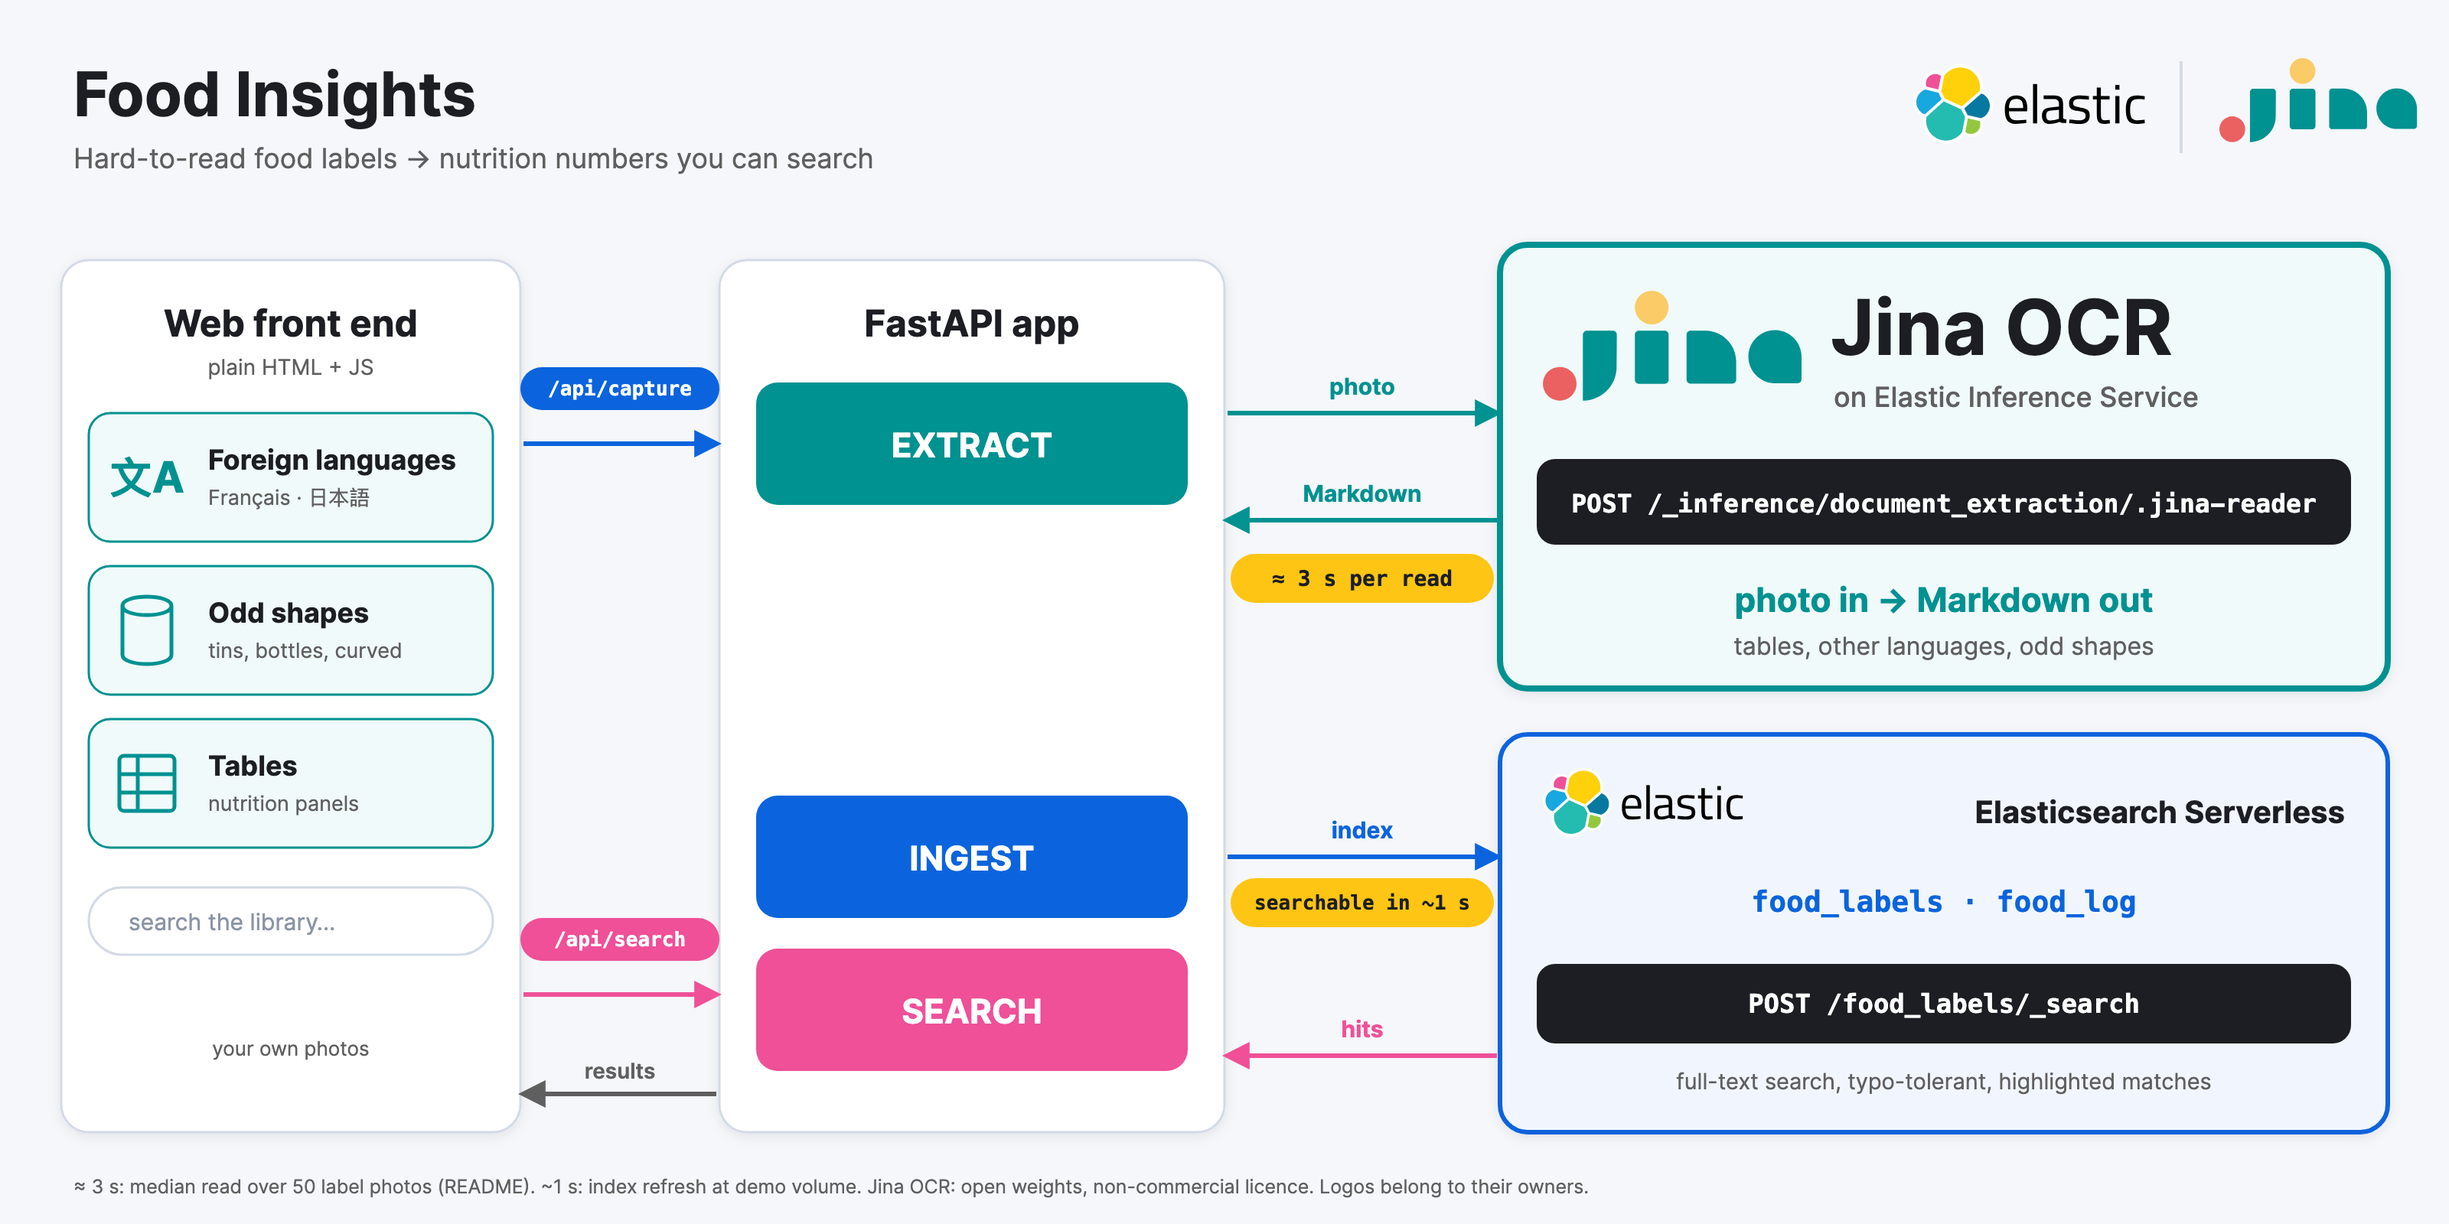
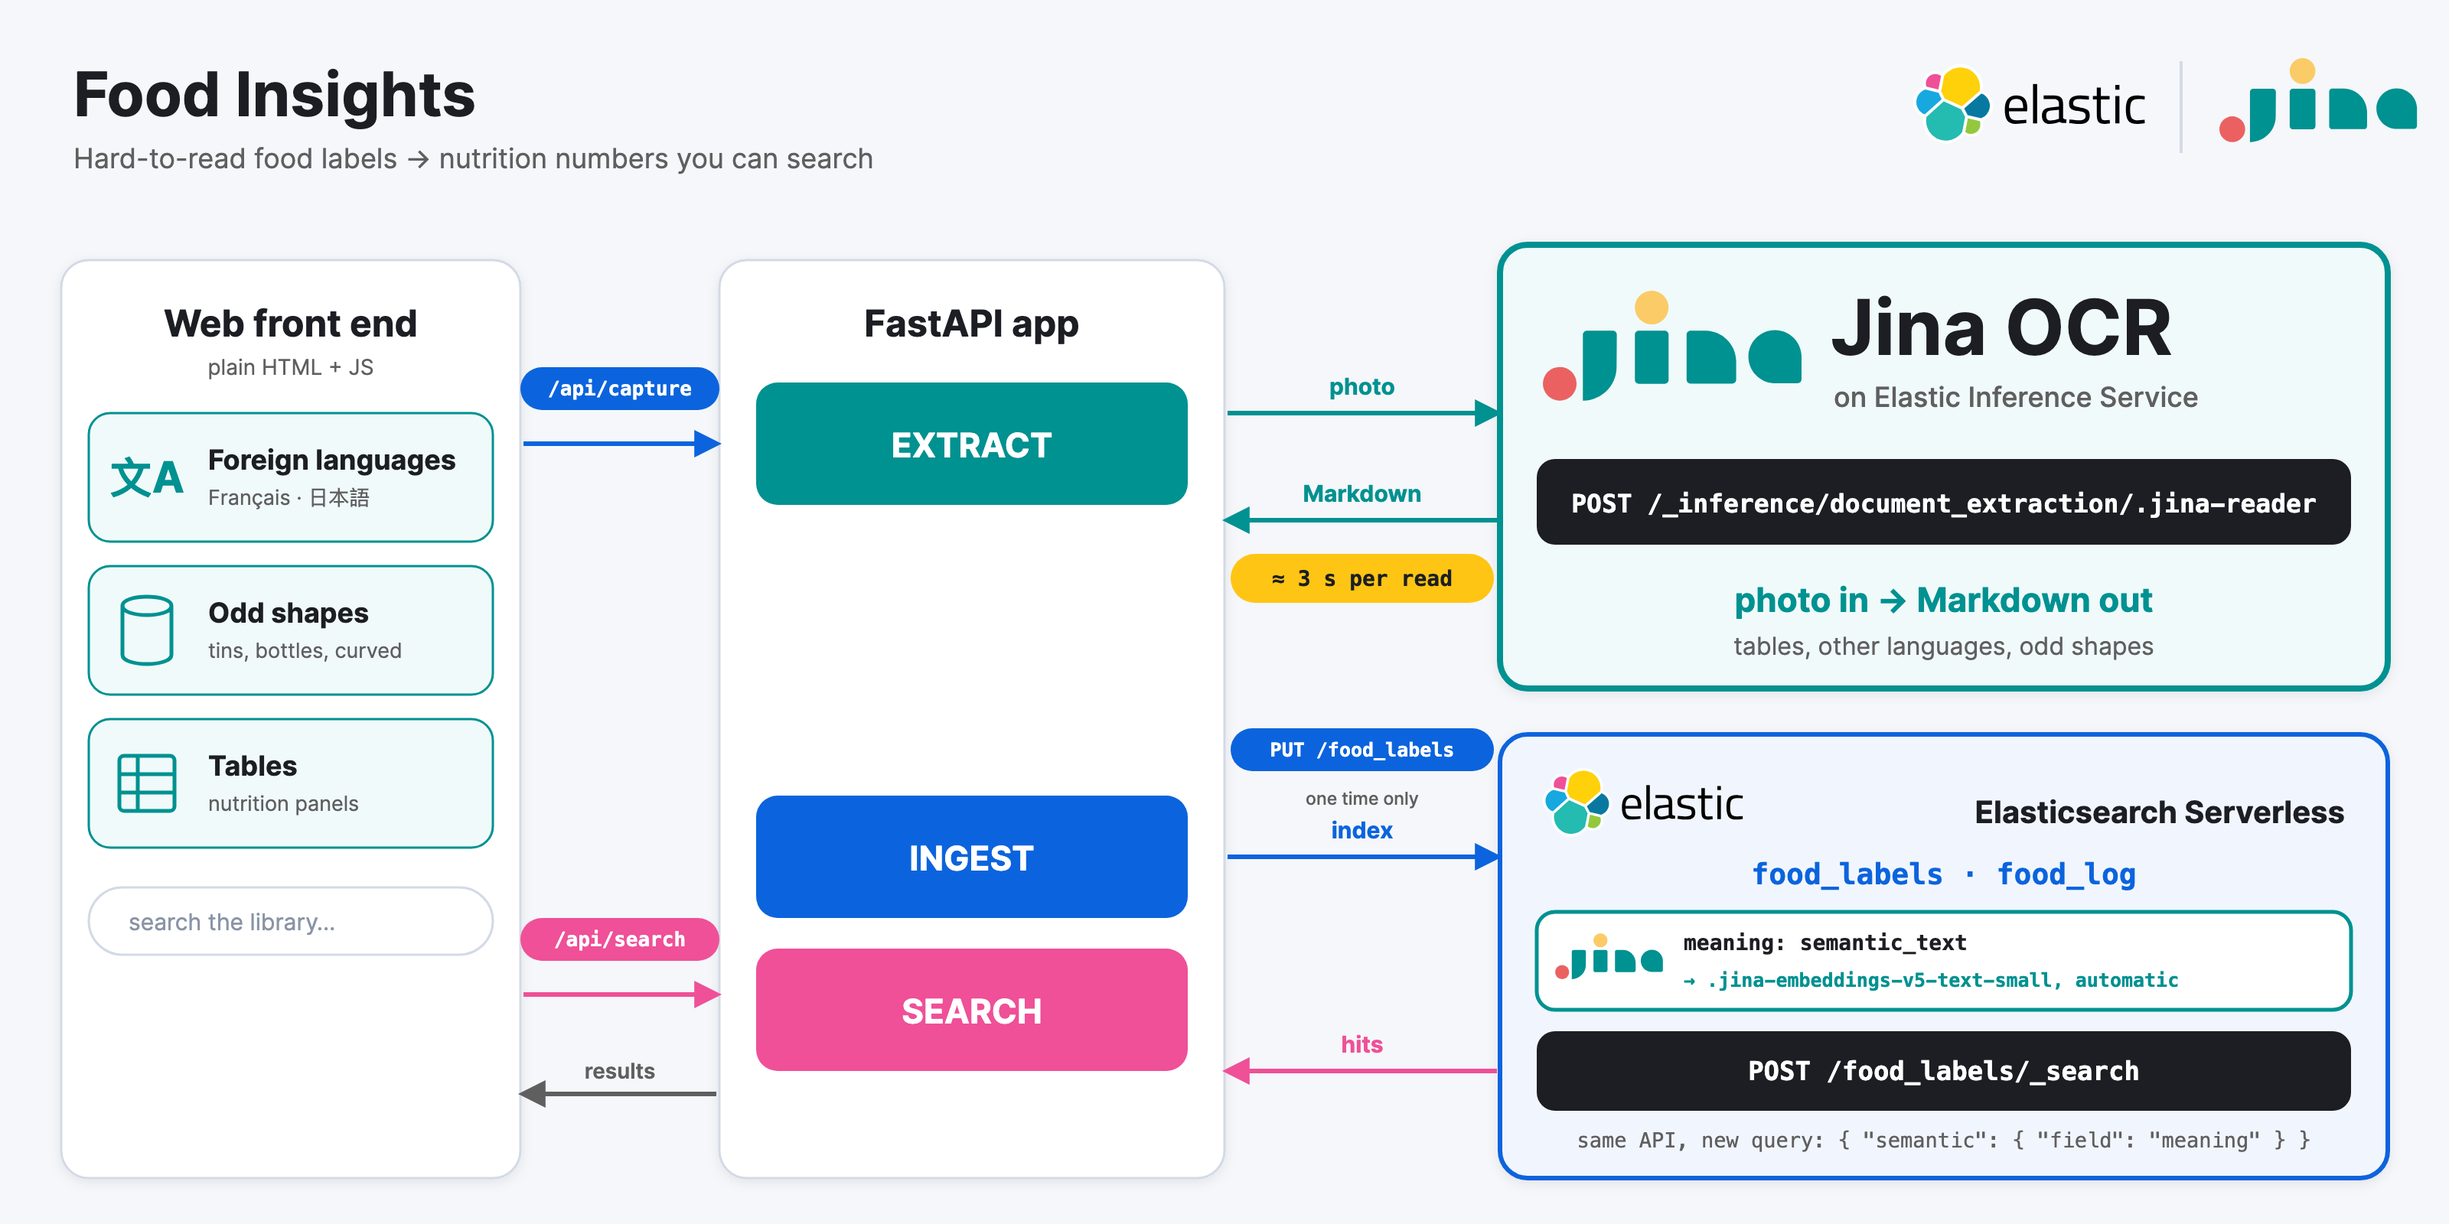
Add search by meaning (semantic_text) and a new architecture diagram
- food_labels gets a `meaning` semantic_text field fed from plain_text via
  copy_to; Elasticsearch embeds it with the default inference endpoint.
- /api/search and /api/aggs take mode=words|meaning; the Library has a
  "Search by meaning" checkbox. Words stays the default.
- docs/architecture.svg (+ .png): Elastic and Jina branding, the exact
  endpoints; README shows it instead of the ASCII diagram.
- AGENTS.md: allow semantic search, still no chat/RAG or reranking.

diff --git a/web/index.html b/web/index.html
@@ -71,6 +71,7 @@
     <section id="screen-library" class="screen" aria-label="Library" hidden>
       <div class="libhead">
         <input id="q" type="search" placeholder="Search labels, e.g. peanut" aria-label="Search labels" autocomplete="off" enterkeyhint="search">
+        <label class="meaning"><input id="q-meaning" type="checkbox"> Search by meaning</label>
         <div id="chips" class="chips" role="radiogroup" aria-label="Filter labels"></div>
       </div>
       <div class="scroll" id="lib-scroll">

diff --git a/web/js/library.js b/web/js/library.js
@@ -17,6 +17,7 @@ const filtersActive = () =>
 function filterParams() {
   const params = new URLSearchParams({ size: PAGE_SIZE });
   if (searchText()) params.set("q", searchText());
+  if (searchText() && $("#q-meaning").checked) params.set("mode", "meaning");
   for (const allergen of state.lib.allergens) params.append("allergen", allergen);
   if (state.lib.kind) params.set("allergen_kind", state.lib.kind);
   if (state.lib.language !== "all") params.set("language", state.lib.language);

diff --git a/web/style.css b/web/style.css
@@ -268,6 +268,7 @@ main { position: absolute; inset: 0; }
   background: var(--card);
   font-size: 16px;
 }
+.libhead .meaning { display: flex; gap: 6px; align-items: center; font-size: 13px; color: var(--ink-2); }
 .libhead input::placeholder { color: var(--ink-2); }
 .chips {
   display: flex;

diff --git a/app/es.py b/app/es.py
@@ -85,7 +85,10 @@ MAPPING = {
         },  # front | typed (a guess from the front, or what you typed)
         "edited_fields": {"type": "keyword"},  # numbers a person corrected by hand
         "raw_markdown": {"type": "text"},
-        "plain_text": {"type": "text"},
+        # copy_to feeds a semantic_text field: Elasticsearch embeds it with the default inference
+        # endpoint (.jina-embeddings-v5-text-small on Serverless) and search by meaning needs nothing else.
+        "plain_text": {"type": "text", "copy_to": "meaning"},
+        "meaning": {"type": "semantic_text"},
         "telemetry": {
             "properties": {
                 "endpoint": {"type": "keyword"},
@@ -197,9 +200,18 @@ def _filters(allergens: list[str], language: str | None, kind: str | None = None
     return out
 
 
-def _query(q: str, filters: list[dict]) -> dict:
-    """Text match (typo-tolerant) when `q` is given, everything otherwise; `filters` never score."""
-    text = {"multi_match": {"query": q, "fields": SEARCH_FIELDS, "fuzziness": "AUTO"}}
+MODES = ("words", "meaning")
+
+
+def _query(q: str, filters: list[dict], mode: str = "words") -> dict:
+    """Match `q` when given, everything otherwise; `filters` never score.
+
+    `words` is typo-tolerant keyword match. `meaning` is a semantic query on the `meaning` field: it
+    ranks every label by closeness, so it is an opt-in mode and not mixed into the default search."""
+    if mode == "meaning":
+        text = {"semantic": {"field": "meaning", "query": q}}
+    else:
+        text = {"multi_match": {"query": q, "fields": SEARCH_FIELDS, "fuzziness": "AUTO"}}
     return {"bool": {"must": [text] if q.strip() else [{"match_all": {}}], "filter": filters}}
 
 
@@ -212,11 +224,12 @@ def _search(
     language: str | None = None,
     size: int = 24,
     kind: str | None = None,
+    mode: str = "words",
 ) -> dict:
-    """Keyword search with optional allergen / kind / language filters."""
+    """Keyword (or, with `mode="meaning"`, semantic) search with optional allergen / kind / language filters."""
     body = client().search(
         index=index_name(),
-        query=_query(q, _filters(allergens or [], language, kind)),
+        query=_query(q, _filters(allergens or [], language, kind), mode),
         sort=[{"_score": "desc"}, {"captured_at": "desc"}]
         if q.strip()
         else [{"captured_at": "desc"}],
@@ -253,12 +266,13 @@ def _aggregate(
     allergens: list[str] | None = None,
     language: str | None = None,
     kind: str | None = None,
+    mode: str = "words",
 ) -> dict:
     """Counts for the Library panel: allergen mentions as read (split contains / may contain),
     languages."""
     body = client().search(
         index=index_name(),
-        query=_query(q, _filters(allergens or [], language, kind)),
+        query=_query(q, _filters(allergens or [], language, kind), mode),
         size=0,
         aggs={
             "allergens": {

diff --git a/tests/test_app.py b/tests/test_app.py
@@ -108,6 +108,17 @@ def test_facility_phrases_are_precautionary():
 # --- mapping -------------------------------------------------------------------------------------
 
 
+def test_meaning_search_uses_a_semantic_field_fed_from_plain_text():
+    p = es.MAPPING["properties"]
+    assert p["meaning"]["type"] == "semantic_text"
+    assert p["plain_text"]["copy_to"] == "meaning"
+    words = es._query("peanut", [])["bool"]["must"][0]
+    meaning = es._query("peanut", [], "meaning")["bool"]["must"][0]
+    assert "multi_match" in words
+    assert meaning == {"semantic": {"field": "meaning", "query": "peanut"}}
+    assert es._query("", [], "meaning")["bool"]["must"] == [{"match_all": {}}]
+
+
 def test_mapping_types():
     p = es.MAPPING["properties"]
     num = [
@@ -215,21 +226,24 @@ def test_capture_rejects_non_images(api):
 def test_search_and_aggs_pass_filters_through(api, monkeypatch):
     calls = {}
 
-    def fake_search(q, a, lang, size, kind):
-        calls["s"] = (q, a, lang, size, kind)
+    def fake_search(q, a, lang, size, kind, mode="words"):
+        calls["s"] = (q, a, lang, size, kind, mode)
         return {"total": 0, "hits": []}
 
-    def fake_aggs(q, a, lang, kind):
-        calls["g"] = (q, a, lang, kind)
+    def fake_aggs(q, a, lang, kind, mode="words"):
+        calls["g"] = (q, a, lang, kind, mode)
         return {"total": 0, "allergens": []}
 
     monkeypatch.setattr(es, "search", fake_search)
     monkeypatch.setattr(es, "aggregate", fake_aggs)
     url = "/api/search?q=jam&allergen=peanuts&allergen=milk&language=fr"
     assert api.get(url + "&allergen_kind=may_contain").status_code == 200
-    assert calls["s"] == ("jam", ["peanuts", "milk"], "fr", 24, "may_contain")
+    assert calls["s"] == ("jam", ["peanuts", "milk"], "fr", 24, "may_contain", "words")
     assert api.get("/api/aggs?allergen=peanuts").status_code == 200
-    assert calls["g"] == ("", ["peanuts"], None, None)
+    assert calls["g"] == ("", ["peanuts"], None, None, "words")
+    assert api.get("/api/search?q=sweet+spread&mode=meaning").status_code == 200
+    assert calls["s"][0] == "sweet spread" and calls["s"][-1] == "meaning"
+    assert api.get("/api/search?mode=nonsense").status_code == 422
     assert api.get("/api/search?allergen_kind=sometimes").status_code == 400
     assert api.get("/api/aggs?allergen_kind=sometimes").status_code == 400
 

diff --git a/tests/test_ui.py b/tests/test_ui.py
@@ -70,9 +70,12 @@ def server(tmp_path_factory):
     mp.setattr(
         es,
         "search",
-        lambda q, a, lang, size, kind: {"total": len(docs), "hits": list(docs.values())},
+        lambda q, a, lang, size, kind, mode="words": {
+            "total": len(docs),
+            "hits": list(docs.values()),
+        },
     )
-    mp.setattr(es, "aggregate", lambda q, a, lang, kind: {"total": len(docs), "allergens": [], "languages": []})  # fmt: skip
+    mp.setattr(es, "aggregate", lambda q, a, lang, kind, mode="words": {"total": len(docs), "allergens": [], "languages": []})  # fmt: skip
     entries: list[dict] = []
     mp.setattr(es, "update_doc", lambda doc_id, fields: docs[doc_id].update(fields))
     mp.setattr(es, "log_entry", entries.append)
@@ -412,7 +415,9 @@ def test_library_search_shows_the_matching_text_with_the_words_marked(page, monk
         "id": "x1", "product_name": "Schokolade", "language": "de", "image_path": "captures/none.jpg",
         "highlight": {"unverified_text": ["**Kann** Spuren von <mark>Erdnüssen</mark> enthalten <br>"]},
     }  # fmt: skip
-    monkeypatch.setattr(es, "search", lambda q, a, lang, size, kind: {"total": 1, "hits": [hit]})
+    monkeypatch.setattr(
+        es, "search", lambda q, a, lang, size, kind, mode="words": {"total": 1, "hits": [hit]}
+    )
     page.ev("document.querySelector('[data-tab=library]').click()")
     page.ev(
         "(() => { const q = document.querySelector('#q'); q.value = 'erdnuss'; q.dispatchEvent(new Event('input')); })()"

diff --git a/app/main.py b/app/main.py
@@ -118,11 +118,12 @@ async def search(
     language: str | None = None,
     size: int = Query(24, ge=1, le=100),
     allergen_kind: str | None = None,
+    mode: Annotated[str, Query(pattern="^(words|meaning)$")] = "words",
 ) -> dict:
     _check_kind(allergen_kind)
     try:
         return await asyncio.to_thread(
-            es.search, q, allergen or [], language or None, size, allergen_kind
+            es.search, q, allergen or [], language or None, size, allergen_kind, mode
         )
     except Exception as exc:
         raise HTTPException(503, f"search unavailable: {str(exc)[:ERROR_DETAIL_CHARS]}") from exc
@@ -134,11 +135,12 @@ async def aggs(
     allergen: Annotated[list[str] | None, Query()] = None,
     language: str | None = None,
     allergen_kind: str | None = None,
+    mode: Annotated[str, Query(pattern="^(words|meaning)$")] = "words",
 ) -> dict:
     _check_kind(allergen_kind)
     try:
         return await asyncio.to_thread(
-            es.aggregate, q, allergen or [], language or None, allergen_kind
+            es.aggregate, q, allergen or [], language or None, allergen_kind, mode
         )
     except Exception as exc:
         raise HTTPException(

diff --git a/README.md b/README.md
@@ -12,7 +12,7 @@ It is a three-step pipeline, **Extract → Ingest → Search**, all inside Elast
 2. **Ingest**: the app parses the numbers and saves one document per label in an Elasticsearch index
    (`food_labels`), and one entry per thing you eat in a second small index (`food_log`). Extraction
    does not store anything by itself; saving is a separate `index` call.
-3. **Search**: the Library searches and counts the labels, and Today adds up your day with one aggregation.
+3. **Search**: the Library searches the labels by words or by meaning and counts them, and Today adds up your day with one aggregation.
 
 One key, one bill.
 
@@ -23,21 +23,9 @@ Your limits are your own, and the app only says "over" or "under".
 
 <p align="center"><img src="docs/architecture.svg" alt="Architecture: browser, FastAPI app, Jina OCR on Elastic Inference Service, Elasticsearch Serverless" width="100%"></p>
 
-```
- WEB FRONT END           FASTAPI APP             ELASTIC CLOUD
-┌──────────────────┐    ┌───────────┐
-│ Foreign language │    │           │  photo     ┌──────────────────────────────────────────────┐
-│ Odd shapes       │───▶│  EXTRACT  │ ─────────▶ │ JINA OCR  (Elastic Inference Service)        │
-│ Tables           │    │           │ ◀───────── │ POST /_inference/document_extraction/        │
-│                  │    │           │  Markdown  │      .jina-reader          ≈ 3 s per read    │
-│                  │    │           │            └──────────────────────────────────────────────┘
-│ /api/capture ────┼───▶│  INGEST   │ ─────────▶ ┌──────────────────────────────────────────────┐
-│                  │    │           │  index     │ ELASTICSEARCH  food_labels · food_log        │
-│ search box       │    │           │            │ searchable in ~1 s                           │
-│ /api/search ─────┼───▶│  SEARCH   │ ◀───────── │ POST /food_labels/_search                    │
-│ ◀── results ─────┼────│           │  hits      └──────────────────────────────────────────────┘
-└──────────────────┘    └───────────┘
-```
+Search works two ways: by words (typo-tolerant) or, with the **Search by meaning** box ticked, by meaning:
+a `semantic_text` field that Elasticsearch fills and embeds by itself (on Serverless the default is
+`.jina-embeddings-v5-text-small`), so "sweet breakfast spread" finds a French *pâte à tartiner* label.
 
 It is built for a phone (and shows as a phone-width column on a laptop). Three tabs:
 
@@ -46,8 +34,8 @@ It is built for a phone (and shows as a phone-width column on a laptop). Three t
 - **Today**: net carbs and calories eaten today against your own limits (defaults 100 g net carbs and
   1800 kcal; change them behind the sliders icon), with how much is left, how many entries, and the list
   of what you ate. A total turns red once it goes over.
-- **Library**: search what you have read (each result shows the matching text, with the words marked),
-  filter by allergen, see counts.
+- **Library**: search what you have read by words (each result shows the matching text, with the words
+  marked) or, with **Search by meaning** ticked, by meaning; filter by allergen, see counts.
 
 After a read, the **Result** opens as a sheet: **net carbs** and **calories** big, the photo, the other
 numbers, and the unverified text, with the Extract → Ingest → Search strip under the name. You can edit the
@@ -101,7 +89,7 @@ make test                # tests, no network needed
 ```
 
 The first read after a quiet period can take a few minutes while the model wakes up. The `food_labels` and
-`food_log` indices are created on first use. Writes refresh the index straight away so a saved label or log
+`food_log` indices are created on first use (an index made by an older version has no `meaning` field: delete it and it is recreated). Writes refresh the index straight away so a saved label or log
 entry shows up at once (fine for a demo; a busy app would batch writes).
 
 `document_extraction` is in preview on Elasticsearch Serverless: your project needs the `.jina-reader`

diff --git a/AGENTS.md b/AGENTS.md
@@ -64,8 +64,9 @@ already exist (`.jina-reader` for document_extraction), nothing to PUT.
   `score.py`, `seed_off.py`); the app does not call it. When fetching: a descriptive `User-Agent` from
   `OFF_USER_AGENT` in `.env`, ≤ 10 search requests/min, product JSON cached to disk.
 - Do not add OpenCV, deskew, or any CV pipeline. Framing is the user's job.
-- Do not build chat/RAG, reranking, or embeddings in this repo yet. Those are
-  a follow-up video.
+- Search has two modes: words (BM25, typo-tolerant) and meaning (a `semantic_text` field, `meaning`, filled
+  from `plain_text` by `copy_to`; Elasticsearch embeds it with the default endpoint, no inference endpoint to
+  create). Do not build chat/RAG or reranking in this repo yet. Those are a follow-up video.
 - No barcode check and no verification badge (removed on purpose; do not re-add).
 - The app compares totals with the person's own limits and never advises: no "you should", no targets we
   choose, no recommendations. Defaults (100 g net carbs, 1800 kcal) are only starting values the person edits.
